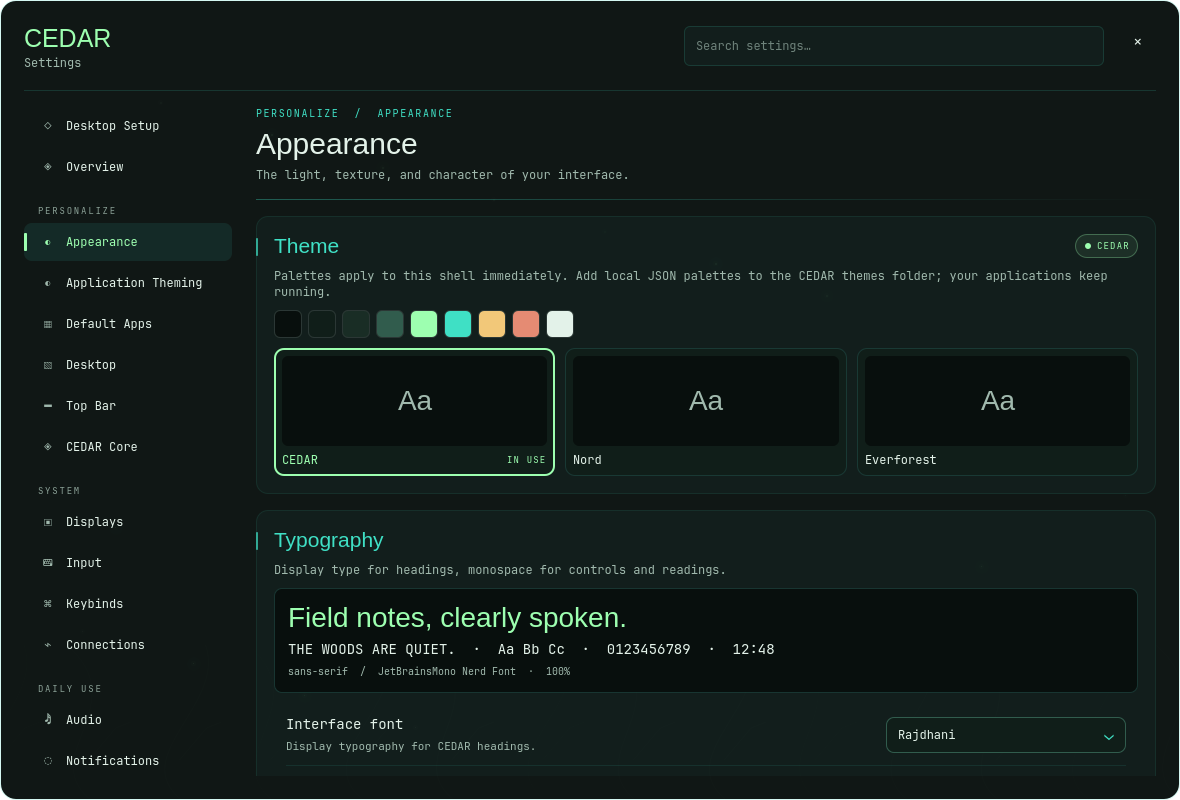
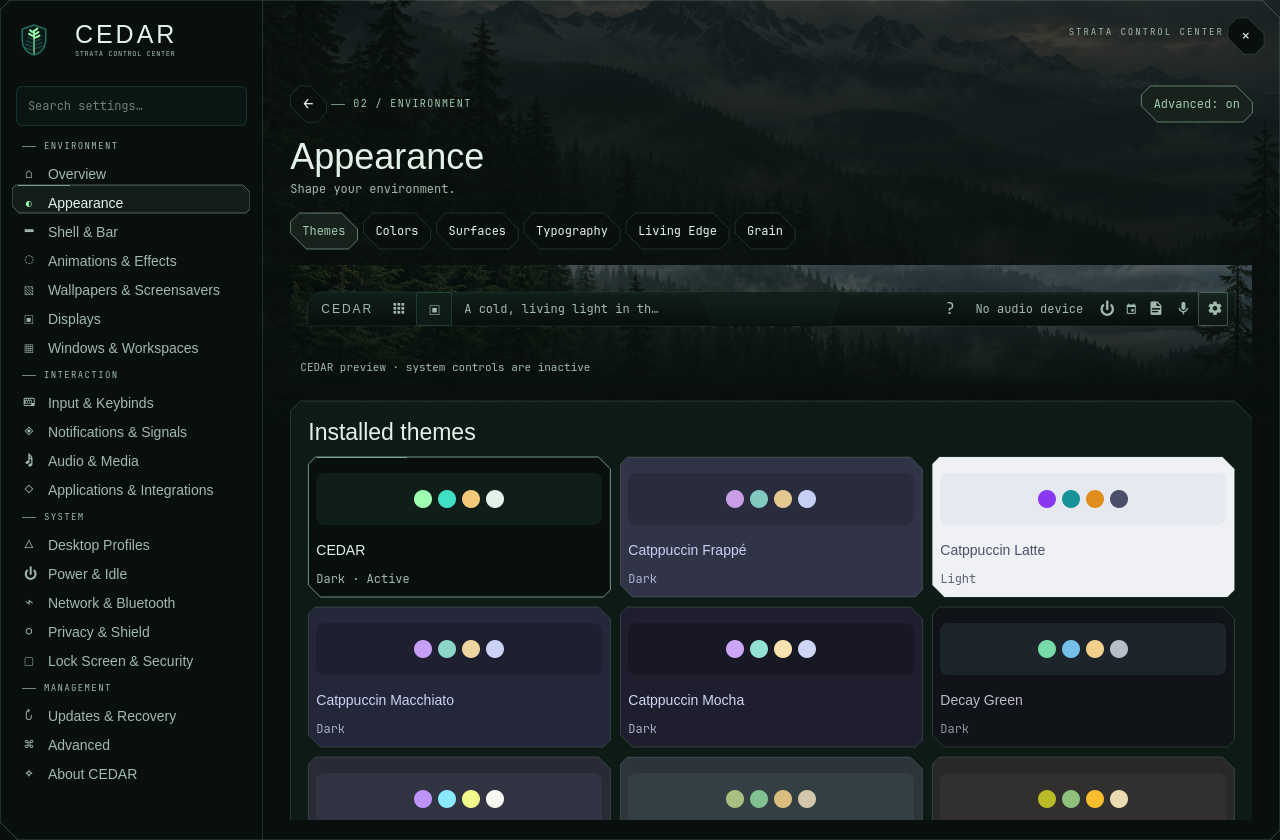
Refresh the GitHub Settings screenshot
Replace the old Appearance image with a capture of the current Strata Control Center and bundled theme grid. Update the README image description.

diff --git a/README.md b/README.md
@@ -13,7 +13,7 @@ CEDAR is a complete desktop shell for Hyprland: a bar, quick controls, a calenda
   <img src="docs/images/calendar.png" alt="Calendar" width="49%">
 </p>
 
-![Settings](docs/images/settings.png)
+![CEDAR Settings — Appearance and bundled themes](docs/images/settings.png)
 
 ## Requirements
 
